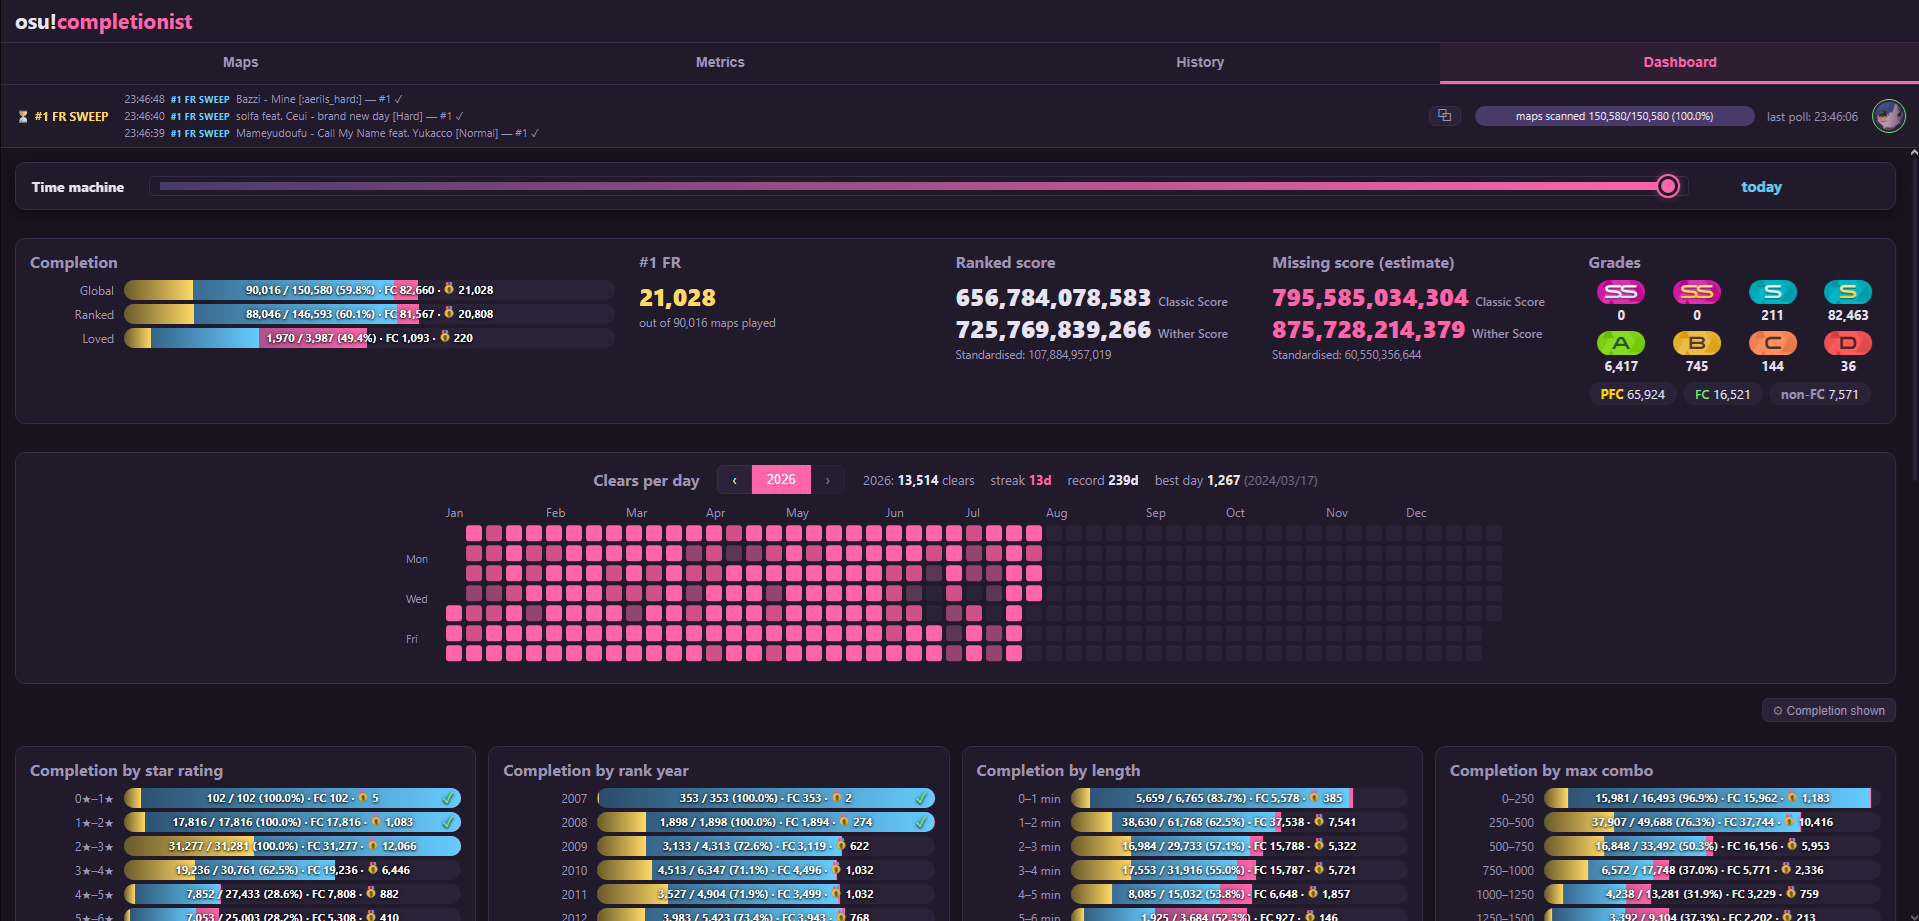
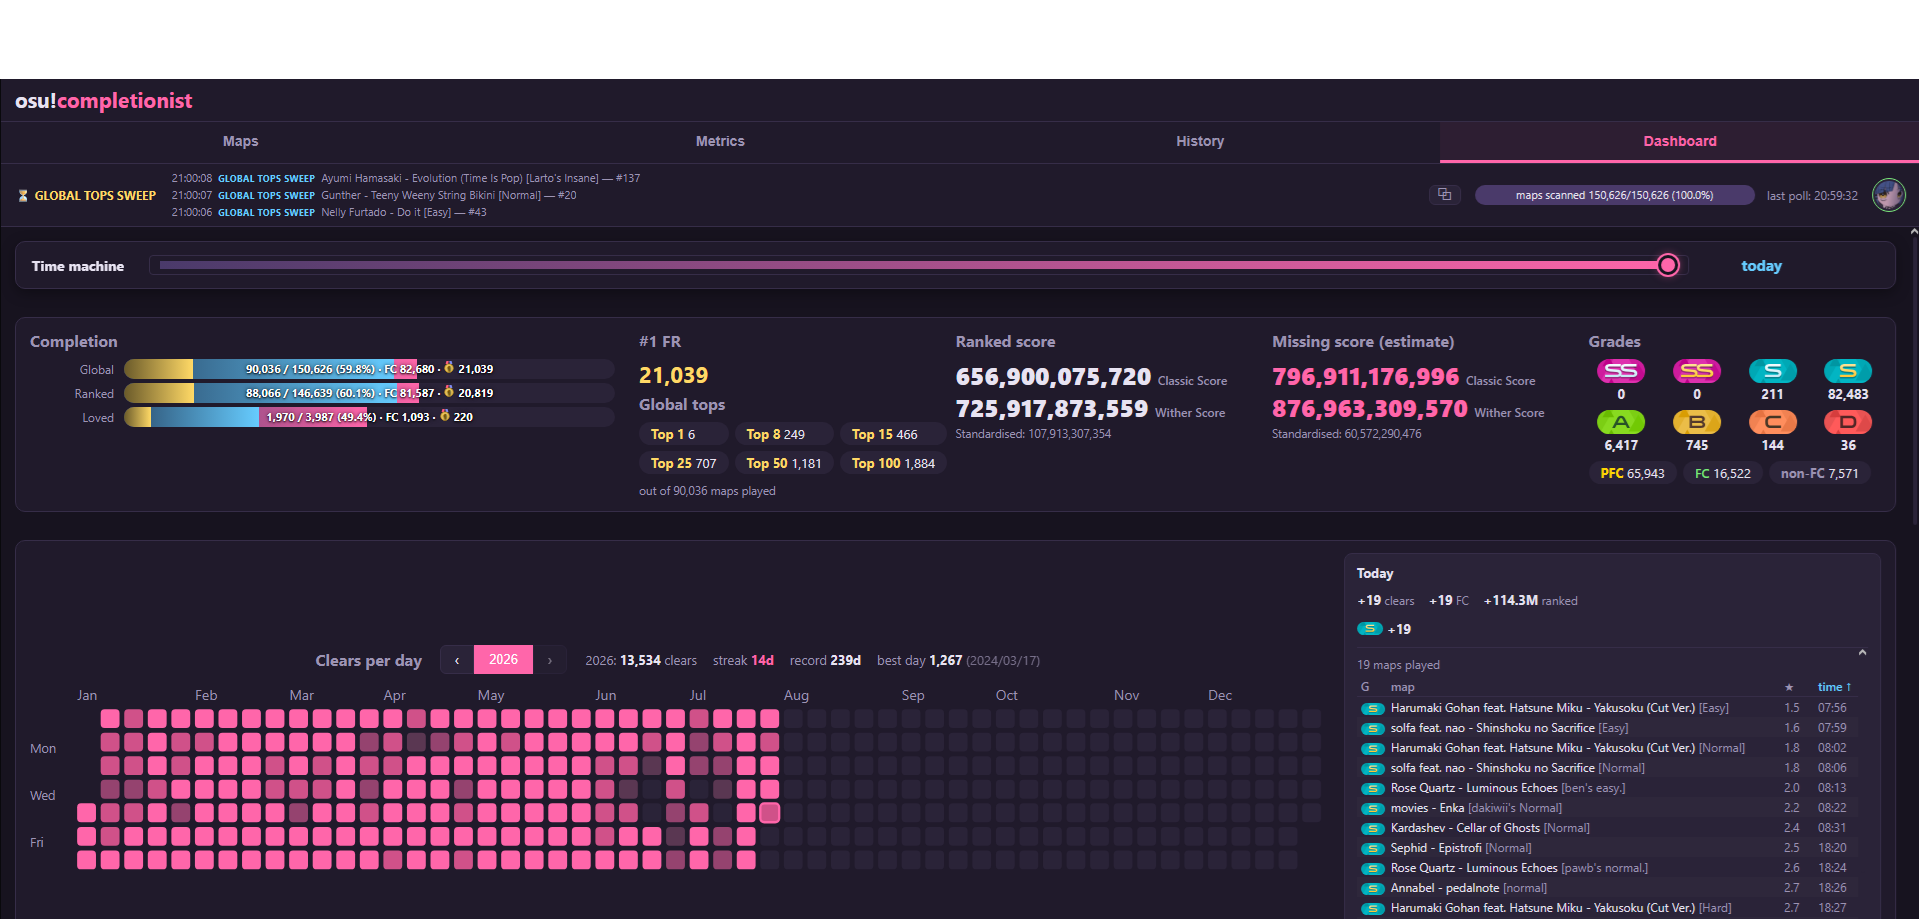
Add context menu for beatmap actions in heatmap and update metric evaluation logic

diff --git a/web/src/components/Heatmap.tsx b/web/src/components/Heatmap.tsx
@@ -1,6 +1,12 @@
 import { useState } from "react";
 import { useQuery } from "@tanstack/react-query";
-import { fetchClears, fetchDaily, fetchTimeline, type TimelinePoint } from "../api";
+import {
+  fetchClears,
+  fetchDaily,
+  fetchTimeline,
+  type ClearRow,
+  type TimelinePoint,
+} from "../api";
 import { fmtCompact, fmtDate, fmtNum } from "../format";
 import { GradeBadge } from "./GradeBadge";
 import { MapModal } from "./MapModal";
@@ -75,6 +81,7 @@ export function HeatmapPanel({ cutoffDay = null }: { cutoffDay?: string | null }
     refetchInterval: 5 * 60_000,
   });
   const [modalId, setModalId] = useState<number | null>(null);
+  const [ctx, setCtx] = useState<{ x: number; y: number; row: ClearRow } | null>(null);
   const [sortKey, setSortKey] = useState<"time" | "title" | "sr" | "grade">("time");
   const [sortDesc, setSortDesc] = useState(false);
   if (!data) return null;
@@ -276,7 +283,13 @@ export function HeatmapPanel({ cutoffDay = null }: { cutoffDay?: string | null }
                       <tr
                         key={r.beatmap_id}
                         title={`${r.artist} - ${r.title} [${r.version}] · ${(r.accuracy * 100).toFixed(2)}%`}
-                        onClick={() => setModalId(r.beatmap_id)}
+                        onDoubleClick={() =>
+                          window.open(`https://osu.ppy.sh/b/${r.beatmap_id}`, "_blank")
+                        }
+                        onContextMenu={(e) => {
+                          e.preventDefault();
+                          setCtx({ x: e.clientX, y: e.clientY, row: r });
+                        }}
                       >
                         <td>
                           <GradeBadge grade={r.rank} width={24} />
@@ -302,6 +315,65 @@ export function HeatmapPanel({ cutoffDay = null }: { cutoffDay?: string | null }
           </div>
         )}
       </div>
+      {ctx && (
+        <>
+          <div
+            className="ctx-overlay"
+            onClick={() => setCtx(null)}
+            onContextMenu={(e) => {
+              e.preventDefault();
+              setCtx(null);
+            }}
+          />
+          <div className="ctx-menu" style={{ left: ctx.x, top: ctx.y }}>
+            <div className="ctx-title">
+              {ctx.row.artist} – {ctx.row.title} [{ctx.row.version}]
+            </div>
+            <button
+              onClick={() => {
+                setModalId(ctx.row.beatmap_id);
+                setCtx(null);
+              }}
+            >
+              Map details
+            </button>
+            <button
+              onClick={() => {
+                window.open(`https://osu.ppy.sh/b/${ctx.row.beatmap_id}`, "_blank");
+                setCtx(null);
+              }}
+            >
+              Open on osu.ppy.sh
+            </button>
+            <button
+              onClick={() => {
+                window.location.href = `osu://b/${ctx.row.beatmap_id}`;
+                setCtx(null);
+              }}
+            >
+              Open in osu! (osu!direct)
+            </button>
+            <button
+              onClick={() => {
+                void navigator.clipboard.writeText(String(ctx.row.beatmap_id));
+                setCtx(null);
+              }}
+            >
+              Copy beatmap id
+            </button>
+            <button
+              onClick={() => {
+                void navigator.clipboard.writeText(
+                  `${ctx.row.artist} - ${ctx.row.title} [${ctx.row.version}]`
+                );
+                setCtx(null);
+              }}
+            >
+              Copy « artist - title [diff] »
+            </button>
+          </div>
+        </>
+      )}
       {modalId != null && (
         <MapModal beatmapId={modalId} onClose={() => setModalId(null)} />
       )}

diff --git a/server/logic/metricEval.ts b/server/logic/metricEval.ts
@@ -63,13 +63,19 @@ function bucketEvolution(
   });
 }
 
-/** Base FROM/JOIN + WHERE for a metric's conditions. */
-function baseFrom(p: MetricParams): string {
+/**
+ * Base FROM/JOIN + WHERE for a metric's conditions.
+ * `bestOnly` (count metrics): score conditions are evaluated against the
+ * map's BEST score only — leaderboard semantics: a lower score matching the
+ * conditions does not count when the best does not. The ranked-score replay
+ * needs every score (successive bests over time), so it opts out.
+ */
+function baseFrom(p: MetricParams, bestOnly: boolean): string {
   return `FROM scores s
     JOIN beatmaps b ON b.id = s.beatmap_id
     JOIN beatmapsets st ON st.id = b.beatmapset_id
     LEFT JOIN beatmap_user u ON u.beatmap_id = b.id
-    WHERE ${mapWhere(p.map)} AND ${scoreWhere(p.score)}`;
+    WHERE ${bestOnly ? "s.id = u.best_lazer_score_id AND " : ""}${mapWhere(p.map)} AND ${scoreWhere(p.score)}`;
 }
 
 /** Total maps matching the map conditions (denominator for "total" mode). */
@@ -89,7 +95,7 @@ function mapTotal(p: MetricParams): number {
 /** Per-bucket completion (maps matched vs available) for a count metric. */
 function countByBucket(p: MetricParams): MetricResult["byBucket"] {
   const db = getDb();
-  const base = baseFrom(p);
+  const base = baseFrom(p, true);
   const dim = BUCKETS[p.breakdown ?? "sr"] ?? BUCKETS.sr;
   const matched = db
     .prepare(
@@ -119,15 +125,41 @@ function countByBucket(p: MetricParams): MetricResult["byBucket"] {
 
 function evalCount(p: MetricParams, gran: "month" | "day"): MetricResult {
   const db = getDb();
-  const base = baseFrom(p);
-  const dates = (
-    db
-      .prepare(`SELECT MIN(s.ended_at) AS at ${base} GROUP BY s.beatmap_id ORDER BY at`)
-      .all() as { at: string }[]
-  ).map((r) => r.at);
-  const points = dates.map((at, i) => ({ at, total: i + 1 }));
+  // Replay of successive bests: at any point in time a map counts iff its
+  // best score AT THAT TIME matched the conditions (leaderboard semantics —
+  // a map can leave the metric when a higher score with e.g. a worse grade
+  // takes over as best). The final state equals the best-only SQL count.
+  const rows = db
+    .prepare(
+      `SELECT s.beatmap_id AS bid, s.ended_at AS at,
+         COALESCE(s.classic_total_score, s.total_score) AS v,
+         (${scoreWhere(p.score)}) AS matches
+       FROM scores s
+       JOIN beatmaps b ON b.id = s.beatmap_id
+       JOIN beatmapsets st ON st.id = b.beatmapset_id
+       LEFT JOIN beatmap_user u ON u.beatmap_id = b.id
+       WHERE ${mapWhere(p.map)} AND s.passed = 1
+       ORDER BY s.ended_at`
+    )
+    .all() as { bid: number; at: string; v: number; matches: number }[];
+  const best = new Map<number, number>();
+  const inSet = new Set<number>();
+  let total = 0;
+  const points: { at: string; total: number }[] = [];
+  for (const r of rows) {
+    const prev = best.get(r.bid) ?? -1;
+    if (r.v <= prev) continue; // not a new best: never affects the LB state
+    best.set(r.bid, r.v);
+    const matches = r.matches === 1;
+    const was = inSet.has(r.bid);
+    if (matches === was) continue;
+    if (matches) inSet.add(r.bid);
+    else inSet.delete(r.bid);
+    total += matches ? 1 : -1;
+    points.push({ at: r.at, total });
+  }
   return {
-    count: dates.length,
+    count: total,
     total: mapTotal(p),
     step: p.step,
     milestones: thresholds(points, p.step),
@@ -139,7 +171,7 @@ function evalCount(p: MetricParams, gran: "month" | "day"): MetricResult {
 /** Ranked-score metric: cumulative sum of best classic score per map. */
 function evalRankedScore(p: MetricParams, gran: "month" | "day"): MetricResult {
   const db = getDb();
-  const base = baseFrom(p);
+  const base = baseFrom(p, false);
   const rows = db
     .prepare(
       `SELECT s.beatmap_id AS bid, s.ended_at AS at, ${RANKED_CLASSIC} AS v ${base} ORDER BY at`
@@ -199,7 +231,7 @@ export function previewMetric(p: MetricParams): {
   byBucket: { bucket: number | string; value: number; total: number }[];
 } {
   const db = getDb();
-  const base = baseFrom(p);
+  const base = baseFrom(p, p.kind !== "ranked_score");
   const count =
     p.kind === "ranked_score"
       ? (

diff --git a/server/routes/table.ts b/server/routes/table.ts
@@ -99,9 +99,10 @@ function buildFilters(
       params.globalTop = n;
     }
   }
-  // Missing maps of a metric: maps matching its MAP conditions that have no
-  // score matching its SCORE conditions (the inner alias `s` shadows the
-  // outer best-score join on purpose — scoreWhere targets the subquery rows).
+  // Missing maps of a metric: maps matching its MAP conditions whose BEST
+  // score does not match its SCORE conditions (leaderboard semantics, same
+  // rule as the metric evaluation; the inner alias `s` shadows the outer
+  // best-score join on purpose — scoreWhere targets the subquery row).
   if (q.metricMissing != null && q.metricMissing !== "") {
     const row = db
       .prepare("SELECT params FROM metrics WHERE id = ?")
@@ -111,7 +112,7 @@ function buildFilters(
       where.push(mapWhere(p.map));
       where.push(
         `NOT EXISTS (SELECT 1 FROM scores s
-           WHERE s.beatmap_id = b.id AND ${scoreWhere(p.score)})`
+           WHERE s.id = u.best_lazer_score_id AND ${scoreWhere(p.score)})`
       );
     }
   }

diff --git a/web/src/styles.css b/web/src/styles.css
@@ -628,10 +628,6 @@ button:disabled { opacity: 0.45; cursor: not-allowed; }
 .heatmap-stats b { color: var(--fg); }
 .heatmap-stats b.accent { color: var(--accent); }
 .heatmap-stats .dim { opacity: 0.7; }
-/* Full-width layout: heatmap column + absolutely-positioned day card whose
-   height matches the heatmap column exactly (the maps list scrolls inside). */
-/* min-height gives the day card room (~10 visible table rows); the heatmap
-   column is vertically centered in it. */
 .heatmap-cols {
   position: relative; padding-right: 30%; min-height: 420px;
   display: flex; align-items: center;
@@ -649,9 +645,9 @@ button:disabled { opacity: 0.45; cursor: not-allowed; }
 }
 .hm-day-list {
   flex: 1 1 auto; min-height: 0; overflow-y: auto;
-  margin-top: 10px; border-top: 1px solid var(--border); padding-top: 8px;
+  margin-top: 10px; border-top: 1px solid var(--border);
 }
-.hm-day-list-head { color: var(--fg-dim); font-size: 12px; margin-bottom: 4px; }
+.hm-day-list-head { color: var(--fg-dim); font-size: 12px; padding: 8px 0 4px; }
 .hm-day-table { width: 100%; border-collapse: collapse; font-size: 12px; table-layout: fixed; }
 .hm-day-table th {
   position: sticky; top: 0; background: var(--bg3); z-index: 1;